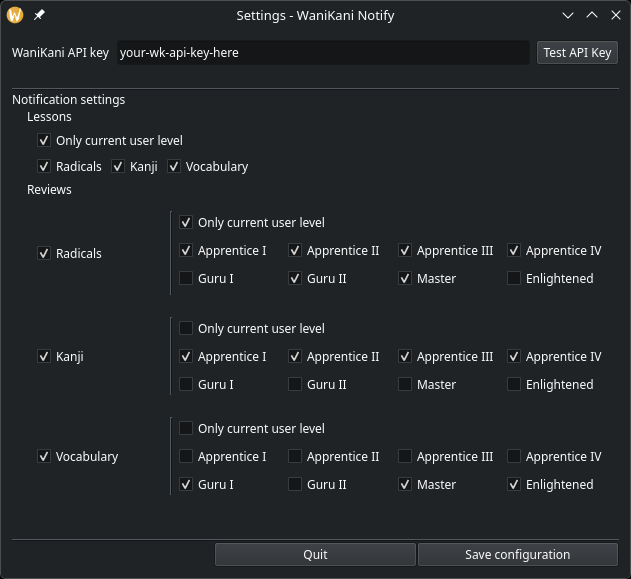
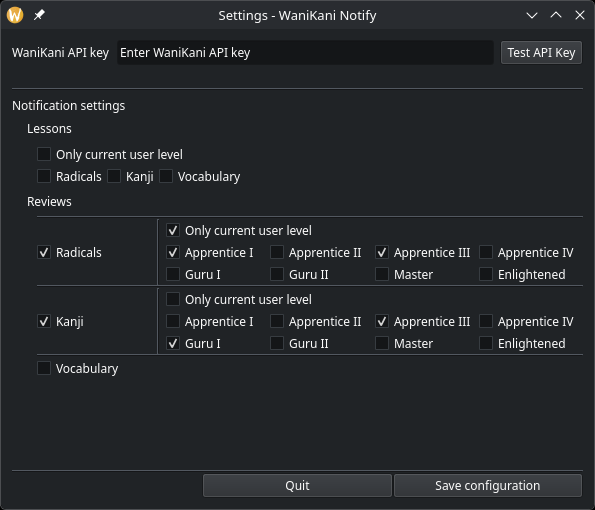
closest review less requests improvement

diff --git a/wk_notify.py b/wk_notify.py
@@ -2,6 +2,8 @@ from functools import partial
 from plyer import notification
 import wk_api as wk
 import json
+from datetime import datetime, timezone, timedelta, time
+import tzlocal
 
 
 def check_available_items(task_type, notify_zero=False):
@@ -23,8 +25,64 @@ def check_available_items(task_type, notify_zero=False):
 def check_closest_review():
     user_level = wk.get_user_level()
     query = create_query("review", user_level, True)
-    reviews = wk.get_future_assignments(query)
+    reviews = future_assignments(query)
     future_notification(reviews)
+
+
+def future_assignments(query_future):
+    local_tz = tzlocal.get_localzone()
+    now_local = datetime.now(local_tz)
+    if time(0, 0) <= now_local.time() < time(3, 0):
+        limit_local = datetime.combine(now_local.date(), time(3, 0), tzinfo=local_tz)
+    else:
+        limit_local = datetime.combine(
+            now_local.date() + timedelta(days=1), time(3, 0), tzinfo=local_tz
+        )
+
+    middle_local = now_local + (limit_local - now_local) / 2
+
+    current_time = datetime.now(timezone.utc)
+    middle_utc = middle_local.astimezone(timezone.utc)
+    limit_utc = limit_local.astimezone(timezone.utc)
+
+    current_plus = current_time.replace(
+        hour=current_time.hour + 1, minute=00, second=0, microsecond=0
+    )
+    middle_utc_start = middle_utc.replace(
+        hour=middle_utc.hour + 1, minute=00, second=0, microsecond=0
+    )
+    middle_utc_end = middle_utc.replace(minute=59, second=0, microsecond=0)
+    limit_utc = limit_utc.replace(minute=59, second=0, microsecond=0)
+
+    current_plus_str = current_plus.strftime("%Y-%m-%dT%H:%M:%SZ")
+    middle_utc_end_str = middle_utc_end.strftime("%Y-%m-%dT%H:%M:%SZ")
+    middle_utc_start_str = middle_utc_start.strftime("%Y-%m-%dT%H:%M:%SZ")
+    limit_utc_str = limit_utc.strftime("%Y-%m-%dT%H:%M:%SZ")
+
+    query_first_half = [
+        f"&available_after={current_plus_str}&available_before={middle_utc_end_str}"
+    ]
+    query_second_half = [
+        f"&available_after={middle_utc_start_str}&available_before={limit_utc_str}"
+    ]
+
+    if wk.get_assignments(query_first_half):
+        future_review = wk.get_future_assignments(query_future, local_tz, current_time)
+        return future_review
+    elif wk.get_assignments(query_second_half):
+        future_review = wk.get_future_assignments(query_future, local_tz, current_time)
+        return future_review
+    else:
+        no_review = {"time": 0}
+        return no_review
+
+
+# Scheduler
+def start_scheduler(scheduler):
+    scheduler.add_job(
+        partial(check_available_items, "review"), "cron", minute=00, second=10
+    )
+    scheduler.start()
 
 
 def create_query(task_type, user_level, future=False):
@@ -86,14 +144,6 @@ def create_query(task_type, user_level, future=False):
     return query_list
 
 
-# Scheduler
-def start_scheduler(scheduler):
-    scheduler.add_job(
-        partial(check_available_items, "review"), "cron", minute=00, second=10
-    )
-    scheduler.start()
-
-
 # Notifications
 def error_notification(e):
     notification.notify(
@@ -104,11 +154,11 @@ def error_notification(e):
     )
 
 
-def check_in_progress_notification(time=2):
+def check_in_progress_notification(time_limit=2):
     notification.notify(
         message=f"Checking...",
         app_name="WaniKani Notify",
-        timeout=time,
+        timeout=time_limit,
     )
 
 
@@ -219,10 +269,10 @@ def generate_specific_notification(assignments, task_type):
         )
         gen_notification += "-----\n"
 
-        if assignments["radicals"] != 0:
-            gen_notification += f"Radicals: {assignments["radicals"]} "
-            if assignments["radicals_burn"] != 0:
-                gen_notification += f"(Ready to burn: {assignments["radicals_burn"]}) "
+        if assignments["radical"] != 0:
+            gen_notification += f"Radicals: {assignments["radical"]} "
+            if assignments["radical_burn"] != 0:
+                gen_notification += f"(Ready to burn: {assignments["radical_burn"]}) "
         gen_notification += "\n"
 
         if assignments["kanji"] != 0:

diff --git a/wk_api.py b/wk_api.py
@@ -1,10 +1,6 @@
-from datetime import datetime, timezone, timedelta, time
-
-import tzlocal
-
+from datetime import timedelta
 import requests
 import json
-
 import wk_notify as wkn
 
 headers = {}
@@ -46,12 +42,9 @@ def get_assignments(query_list):
         while assignment_request:
             try:
                 assignment_response = requests.get(assignment_request, headers=headers)
-
-                # if assignment_response.status_code == 200:
                 assignment_data = assignment_response.json()
 
                 for assignment in assignment_data["data"]:
-
                     assignment_type = assignment["data"].get("subject_type")
                     if assignment_type == "radical":
                         assignments_list.append(assignment)
@@ -115,28 +108,11 @@ def count_assignments(assignments_list):
     return assignment_items
 
 
-def get_future_assignments(query_future):
-    local_tz = tzlocal.get_localzone()
-    now_local = datetime.now(local_tz)
-    limit_local = datetime.combine(
-        now_local.date() + timedelta(days=1), time(3, 0), tzinfo=local_tz
-    )
-
-    limit_utc = limit_local.astimezone(timezone.utc)
-
-    current = datetime.now(timezone.utc)
-
-    radicals = 0
-    kanji = 0
-    vocabulary = 0
-    radicals_burn = 0
-    kanji_burn = 0
-    vocabulary_burn = 0
-
+def get_future_assignments(query_future, local_tz, current_time):
     while True:
         query_new = []
 
-        next_time = current + timedelta(hours=1)
+        next_time = current_time + timedelta(hours=1)
 
         available_after = next_time.replace(minute=0, second=0, microsecond=0)
         available_before = next_time.replace(minute=59, second=0, microsecond=0)
@@ -153,42 +129,13 @@ def get_future_assignments(query_future):
 
         future_assignment = get_assignments(query_new)
 
-        for element in future_assignment:
-            if element["data"]["subject_type"] == "radical":
-                radicals += 1
-                if element["data"]["srs_stage"] == 8:
-                    radicals_burn += 1
-            if element["data"]["subject_type"] == "kanji":
-                kanji += 1
-                if element["data"]["srs_stage"] == 8:
-                    kanji_burn += 1
-            if (
-                element["data"]["subject_type"] == "vocabulary"
-                or element["data"]["subject_type"] == "kana_vocabulary"
-            ):
-                vocabulary += 1
-                if element["data"]["srs_stage"] == 8:
-                    vocabulary_burn += 1
+        future_review = count_assignments(future_assignment)
 
-        if available_after == limit_utc:
-            no_review = {"time": 0}
-            return no_review
         if not future_assignment:
-            current = next_time
+            current_time = next_time
             continue
         else:
             local_time = available_after.astimezone(local_tz).strftime("%H:%M")
-            total = radicals + kanji + vocabulary
-
-            future_review = {
-                "time": local_time,
-                "total": total,
-                "radicals": radicals,
-                "kanji": kanji,
-                "vocabulary": vocabulary,
-                "radicals_burn": radicals_burn,
-                "kanji_burn": kanji_burn,
-                "vocabulary_burn": vocabulary_burn,
-            }
+            future_review["time"] = local_time
 
             return future_review